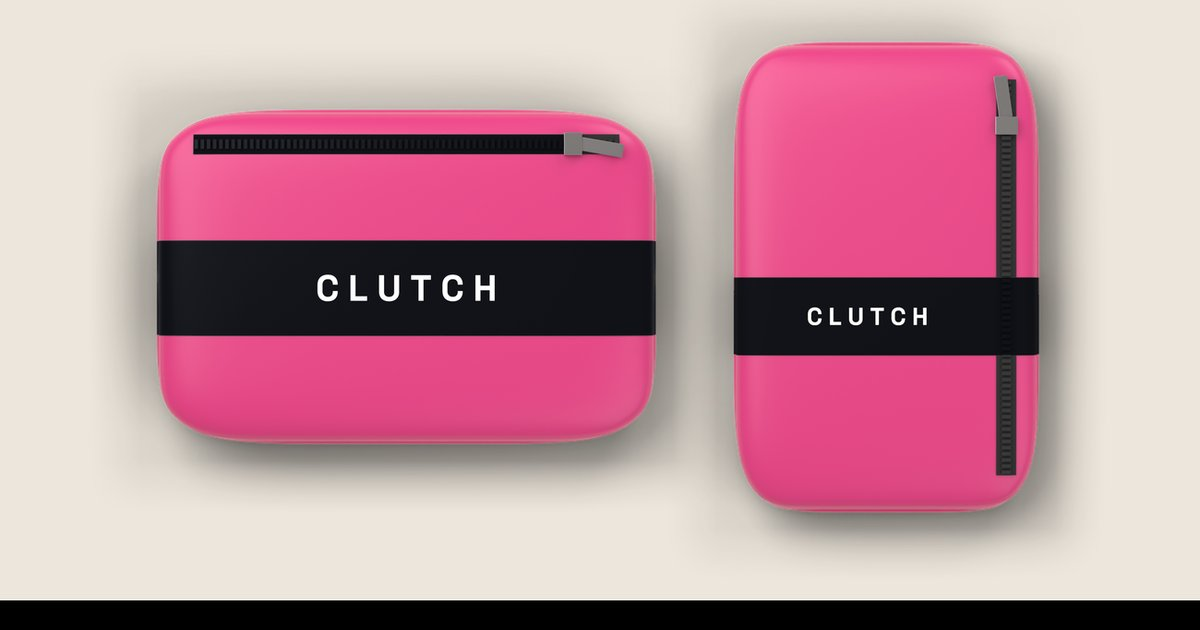
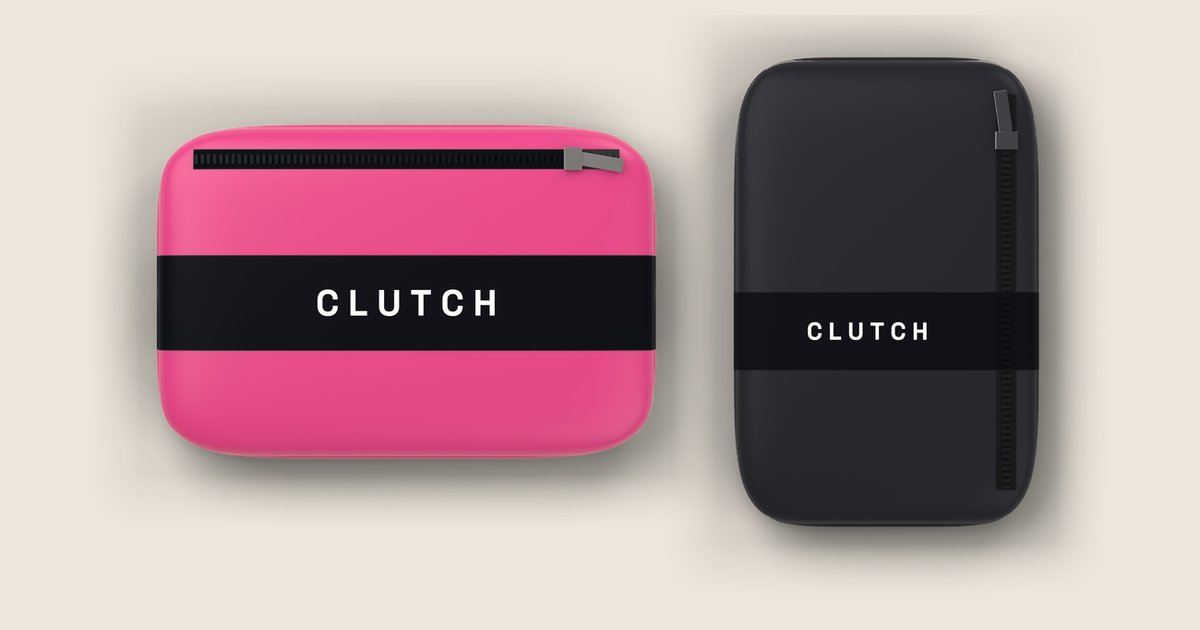
pocket updates

diff --git a/pocket/index.html b/pocket/index.html
@@ -3,11 +3,11 @@
   <head>
     <meta charset="UTF-8" />
     <meta name="viewport" content="width=device-width, initial-scale=1.0" />
-    <link rel="canonical" href="https://cameinclutch.com/pocket-concept/" />
+    <link rel="canonical" href="https://cameinclutch.com/pocket/" />
     <meta property="og:type" content="website" />
-    <meta property="og:url" content="https://cameinclutch.com/pocket-concept/" />
+    <meta property="og:url" content="https://cameinclutch.com/pocket/" />
     <meta property="og:title" content="CLUTCH Pocket (concept)" />
-    <meta property="og:description" content="A smaller, vertical Clutch for nights without a bag. Concept only: size, contents and price are tentative." />
+    <meta property="og:description" content="A smaller, vertical Clutch for anyone who goes out with just their pockets. Charcoal or bone. Concept only: size, contents and price are tentative." />
     <meta property="og:image" content="https://cameinclutch.com/pocket-preview.jpg" />
     <meta property="og:image:width" content="1200" />
     <meta property="og:image:height" content="630" />

diff --git a/src/App.jsx b/src/App.jsx
@@ -316,7 +316,7 @@ function App() {
           <div className="kit-layout">
             <div className="kit-copy">
               <h2 id="kit-title" tabIndex={-1}>What’s inside.</h2>
-              <p className="kit-hint">Nine essentials and one empty slot, packed in a 4.5 × 3 in. pouch. Click the zipper on the model to see each one and what it’s for.</p>
+              <p className="kit-hint">Nine essentials and one empty slot, packed in a 4.5 × 3 in. pouch. Click the zipper on this CSS-animated model to see each one and what it’s for.</p>
               <ul className="kit-list">
                 {KIT_LIST.map(([n, name]) => <li key={name}><b>{n}</b>{name}</li>)}
               </ul>

diff --git a/vite.config.js b/vite.config.js
@@ -2,14 +2,14 @@ import react from '@vitejs/plugin-react'
 import { resolve } from 'node:path'
 import { defineConfig } from 'vite'
 
-// Two pages: the homepage, and the unlinked Pocket concept at /pocket-concept/.
+// Two pages: the homepage, and the Pocket concept at /pocket/ (public, but not linked from the homepage).
 export default defineConfig({
   plugins: [react()],
   build: {
     rollupOptions: {
       input: {
         main: resolve(import.meta.dirname, 'index.html'),
-        pocket: resolve(import.meta.dirname, 'pocket-concept/index.html'),
+        pocket: resolve(import.meta.dirname, 'pocket/index.html'),
       },
     },
   },
